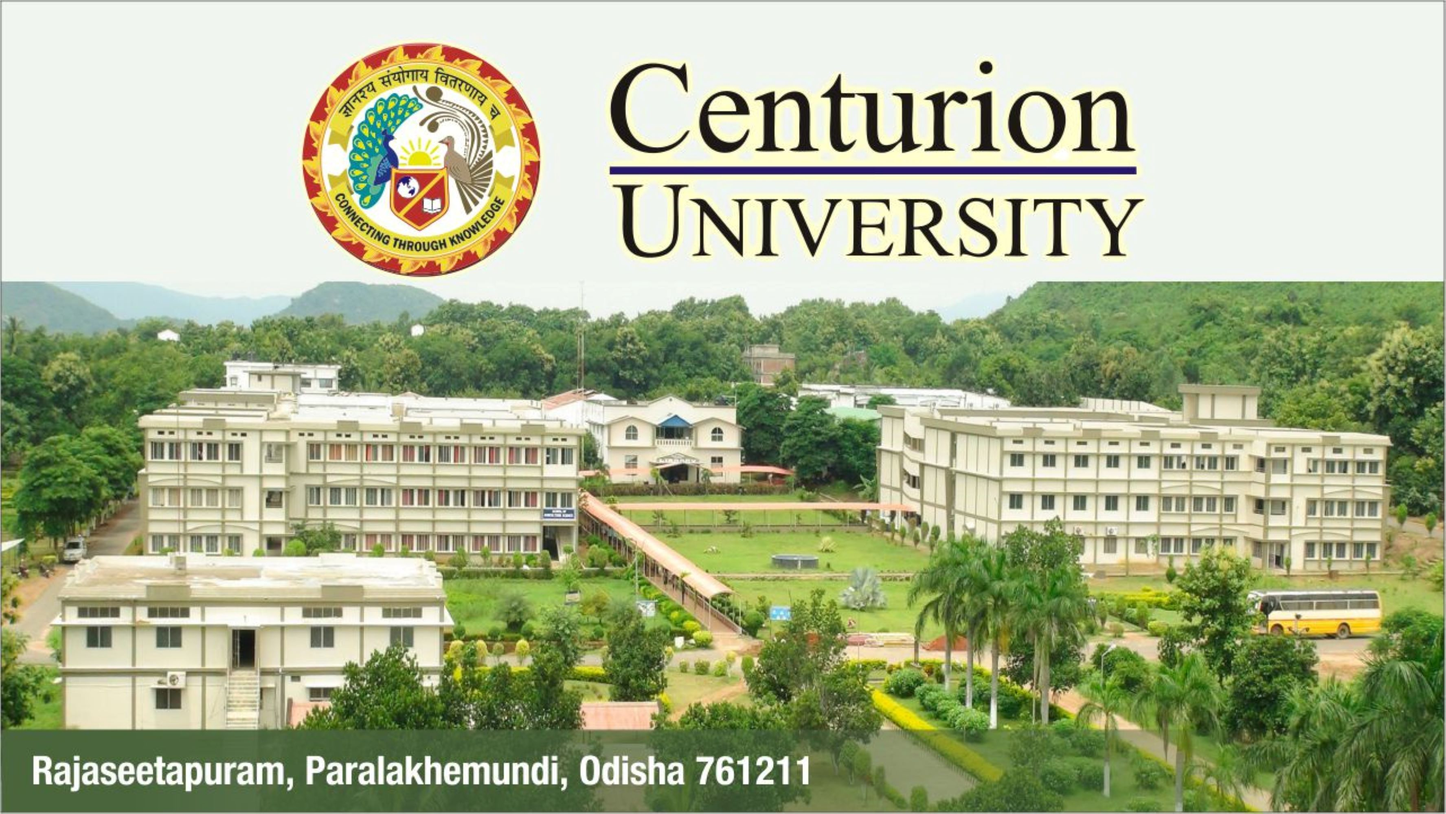
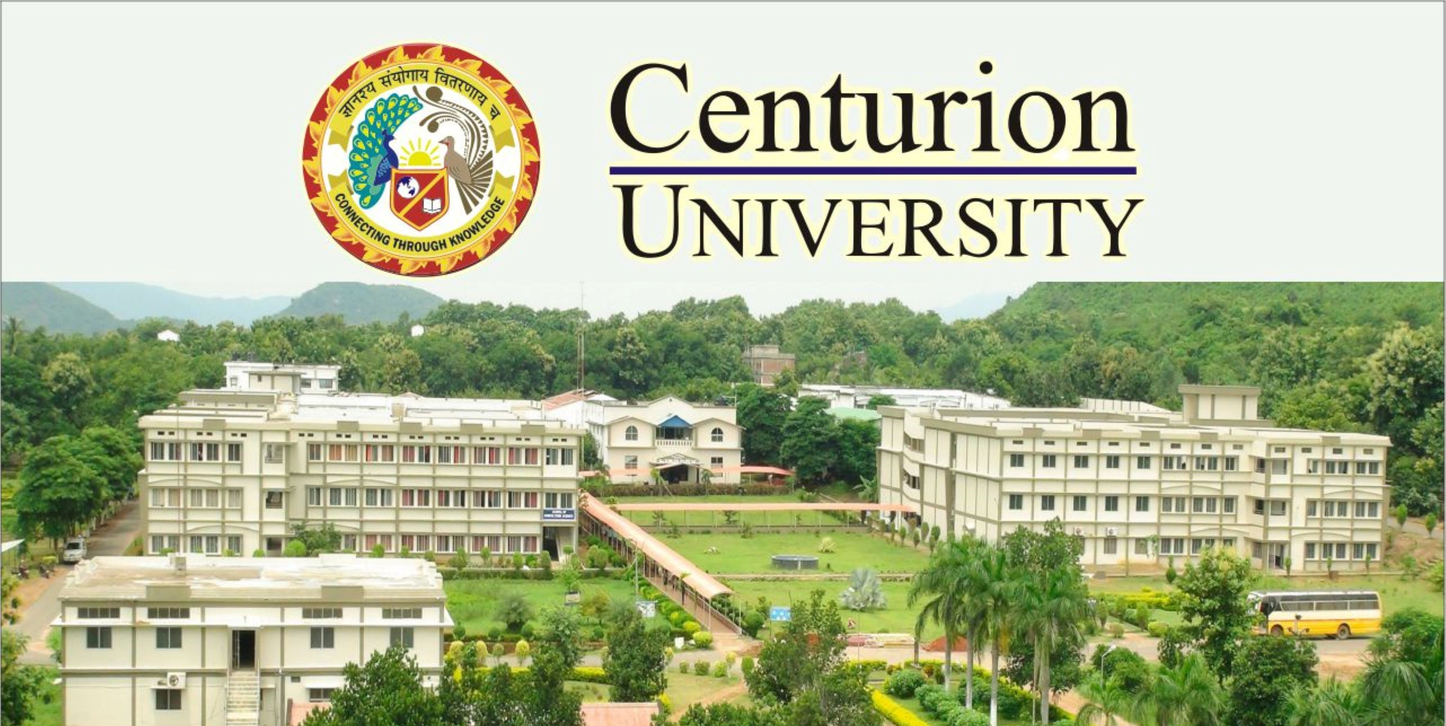
Updated index

diff --git a/index.html b/index.html
@@ -316,9 +316,50 @@
         <div class="container mx-auto">
             <h2 class="text-center text-3xl font-semibold mb-8 text-blue-900 md:px-3">Centurion University of Technology and Management , Odisha</h2>
             <div class="flex flex-col md:flex-row items-center">
-                <div class="md:w-1/2 mt-8 md:mt-0 md:ml-8">
-                    <img src="assets/CUTM_main.jpg" alt="About Image" class="w-full h-auto">
+
+
+
+
+
+
+
+
+                <div class="w-full md:w-1/2 p-4">
+                    <div class="relative overflow-hidden">
+                        <div class="carousel-container relative">
+                            <div class="carousel-track w-full flex">
+                                <div class="carousel-item w-full">
+                                    <img src="assets/CUTM_main.jpg" alt="Image 1" class="carousel-image w-full h-full object-cover rounded">
+                                </div>
+                                <div class="carousel-item w-full">
+                                    <img src="assets/fountain.jpg" alt="About Image 2" class="carousel-image w-full h-full object-cover rounded-lg">
+                                </div>
+                            
+                                <div class="carousel-item w-full">
+                                    <img src="assets/Carosel2.JPG" alt="About Image 3" class="carousel-image w-full h-full object-cover rounded-lg">
+                                </div>
+                        
+                            </div>
+                        </div>
+                    </div>
                 </div>
+        <!-- <div class="md:w-1/2 mt-8 md:mt-0 md:ml-8">
+                    <img src="assets/CUTM_main.jpg" alt="About Image" class="w-full h-auto">
+                </div> -->
+
+
+
+
+
+
+
+
+
+
+
+
+
+                
                 <div class="flex-1 mt-8 md:mt-0 md:pl-12 p-5 md:w-100% justify-between text-justify">
                     <!-- <h2 class="text-2xl font-semibold mb-4">Centurion University of Technology and Management</h2> -->
                     <h3 class="text-lg font-semibold mb-4">Accredited with ‘A+’ Grade by National Assessment and Accreditation Council (NAAC)</h3>

diff --git a/committee.html b/committee.html
@@ -131,6 +131,7 @@
             <div class="header">Patron</div>
             <ul>
                 <li><b>Prof. (Dr.) Supriya Pattanayak</b>, Vice-Chancellor, CUTM, Odisha</li>
+                <li><b>Prof. (Dr.) Purna Mohanty</b>,  Co-founder and CEO Marquee Semiconductor</li>
             </ul>
             <div class="header">Honorary General Chair</div>
             <ul>
